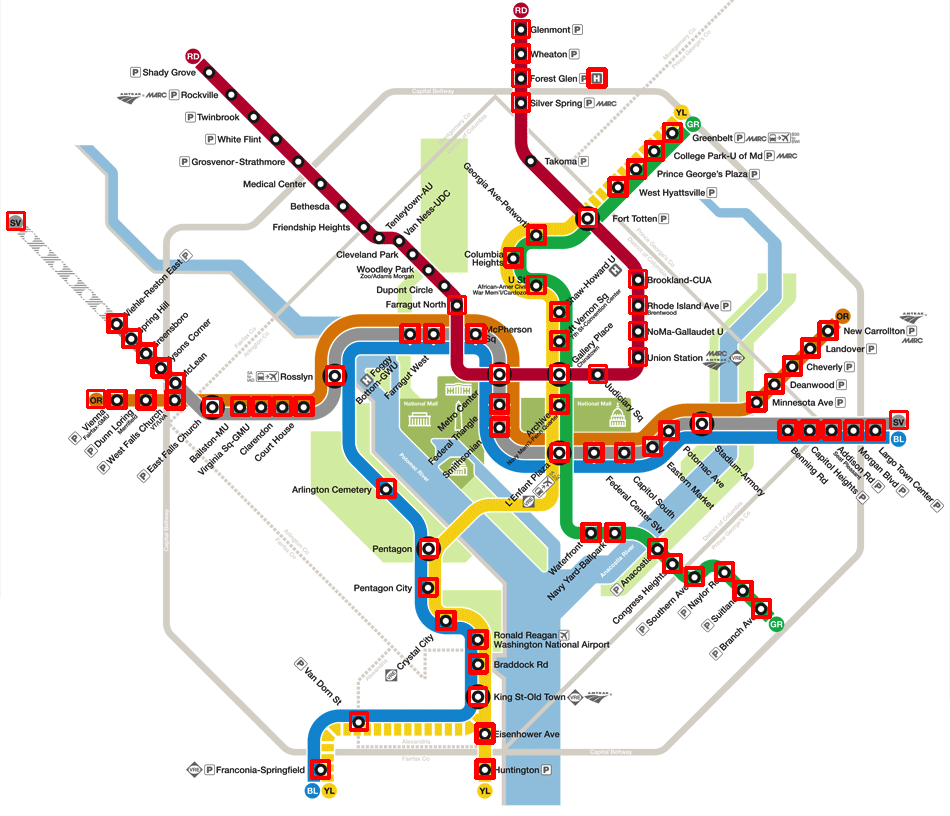
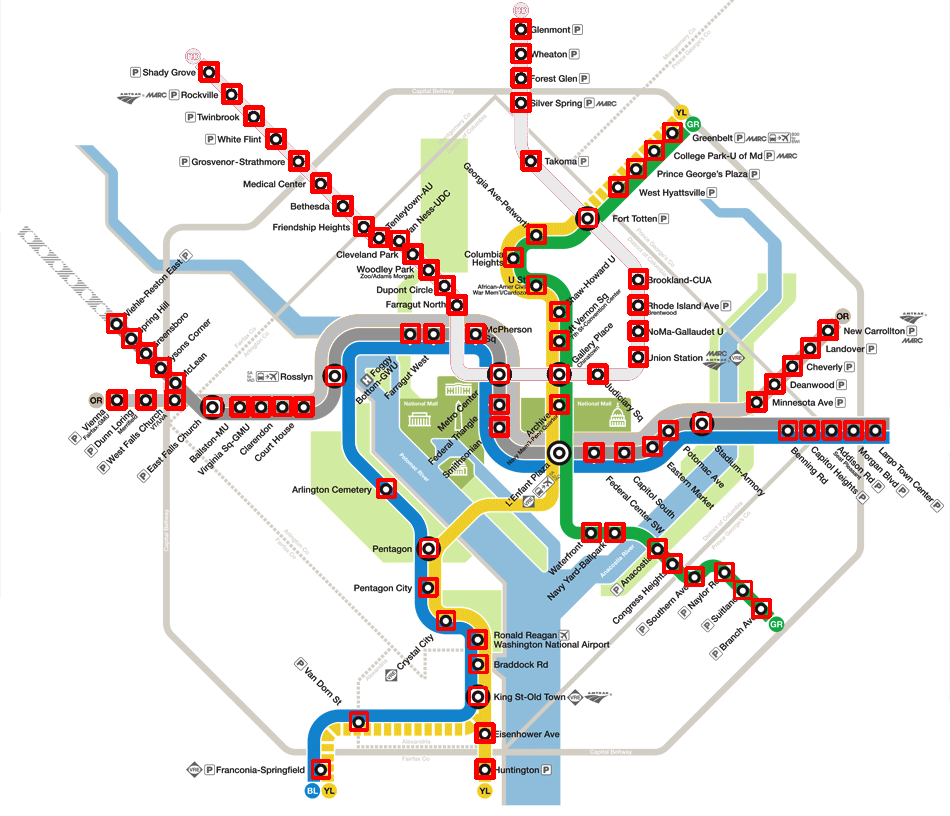
basic template detection with overlaps

diff --git a/detect-station-circles.py b/detect-station-circles.py
@@ -15,10 +15,19 @@ template = cv2.imread(template_name,0)
 w, h = template.shape[::-1]
 
 res = cv2.matchTemplate(img_gray,template,cv2.TM_CCOEFF_NORMED)
-threshold = 0.6
-loc = np.where( res >= threshold)
-for pt in zip(*loc[::-1]):
+threshold = 0.65
+loc = np.where(res >= threshold)
+pts = zip(*loc[::-1])
+
+
+# filter pts by min_distance px
+# min_distance = 5
+# filtered_pts = 
+# for i in xrange()
+
+for pt in pts:
     cv2.rectangle(img_rgb, pt, (pt[0] + w, pt[1] + h), (0,0,255), 2)
 
+print "Found",len(pts),"points."
+
 cv2.imwrite('res.png',img_rgb)
-cv2.imshow('image',img_rgb)
